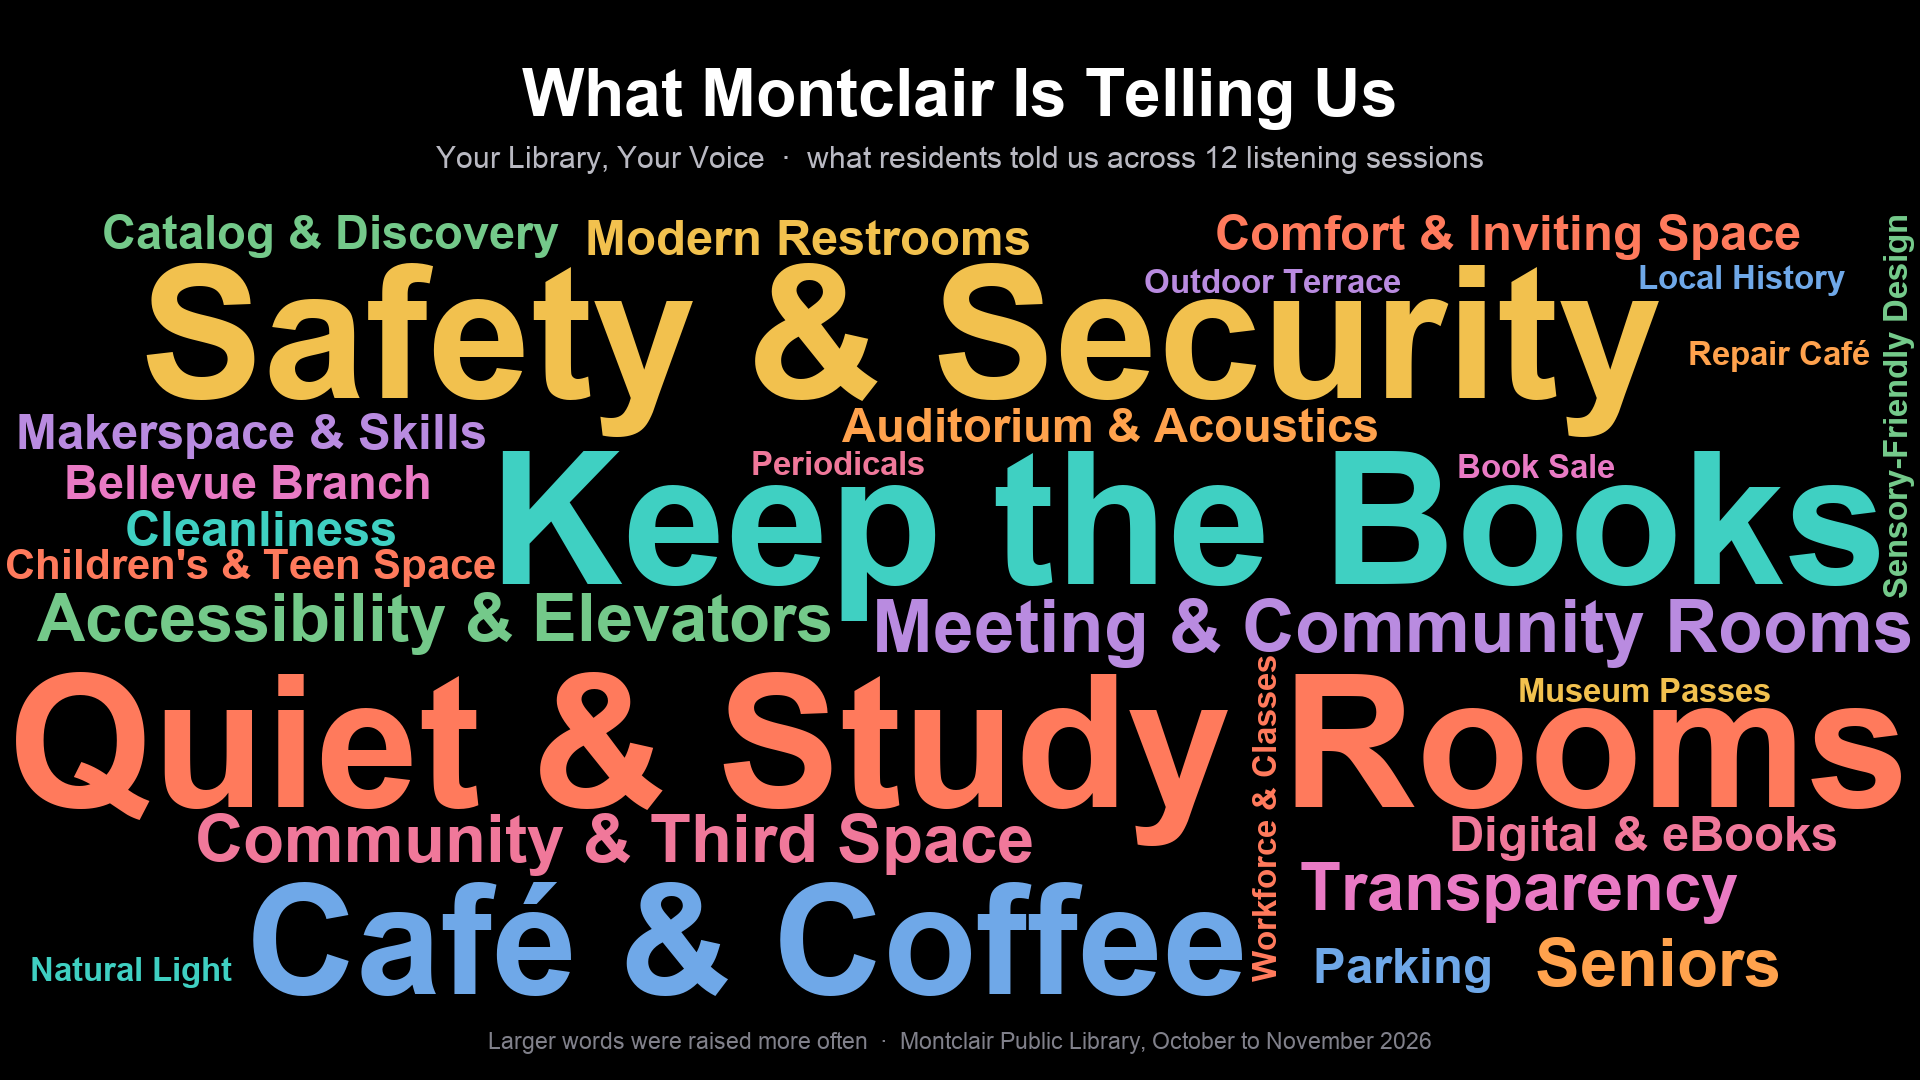
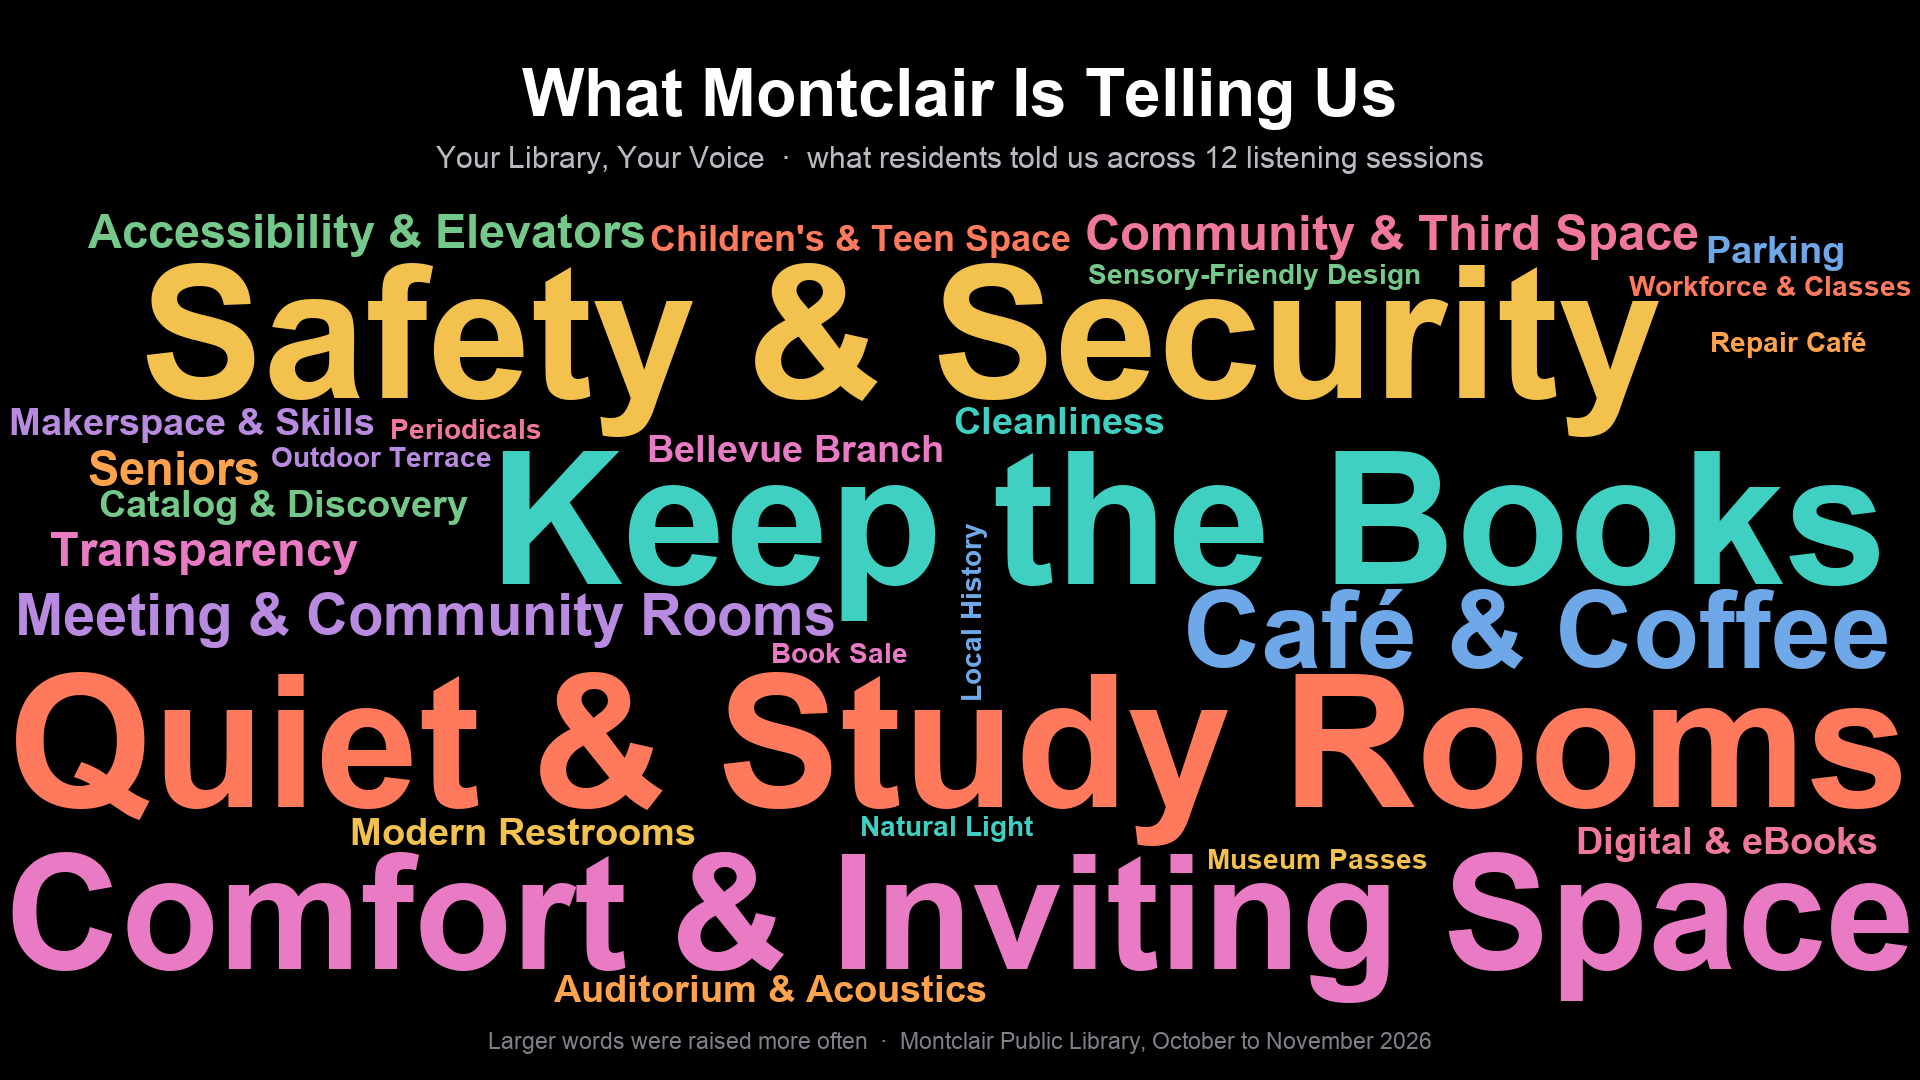
Word cloud: promote Comfort & Inviting Space to XL and recolor it
Bump Comfort & Inviting Space to the top size tier and give it its own color
(magenta) so it no longer matches the adjacent Quiet & Study Rooms. Update
the image alt text to list it among the largest themes.

diff --git a/updates/2026-11-more-chances-to-be-heard.html b/updates/2026-11-more-chances-to-be-heard.html
@@ -17,7 +17,7 @@
 <meta property="og:image" content="https://montclairlibrary.github.io/renovation/listening-sessions-wordcloud.png">
 <meta property="og:image:width" content="1920">
 <meta property="og:image:height" content="1080">
-<meta property="og:image:alt" content="A word cloud of what Montclair residents told us across 12 listening sessions, with Quiet and Study Rooms, Keep the Books, and Safety and Security the largest.">
+<meta property="og:image:alt" content="A word cloud of what Montclair residents told us across 12 listening sessions, with Quiet and Study Rooms, Keep the Books, Safety and Security, and Comfort and Inviting Space the largest.">
 
 <meta name="twitter:card" content="summary_large_image">
 <meta name="twitter:title" content="More Chances to Be Heard">
@@ -64,7 +64,7 @@
         <p>Across twelve sessions, a clear set of priorities surfaced again and again. The word cloud below is a snapshot: the larger the words, the more often residents raised them.</p>
       </div>
       <figure class="wc-figure">
-        <img src="../listening-sessions-wordcloud.png" alt="A word cloud of what Montclair residents told us across 12 listening sessions. The largest themes are Quiet and Study Rooms, Keep the Books, and Safety and Security, followed by Café and Coffee, Meeting and Community Rooms, Seniors, Accessibility, Transparency, and many more.">
+        <img src="../listening-sessions-wordcloud.png" alt="A word cloud of what Montclair residents told us across 12 listening sessions. The largest themes are Quiet and Study Rooms, Keep the Books, Safety and Security, and Comfort and Inviting Space, followed by Café and Coffee, Meeting and Community Rooms, Seniors, Accessibility, Transparency, and many more.">
         <figcaption>What Montclair is telling us, drawn from 12 Your Library, Your Voice listening sessions.</figcaption>
       </figure>
       <div class="wc-actions">
